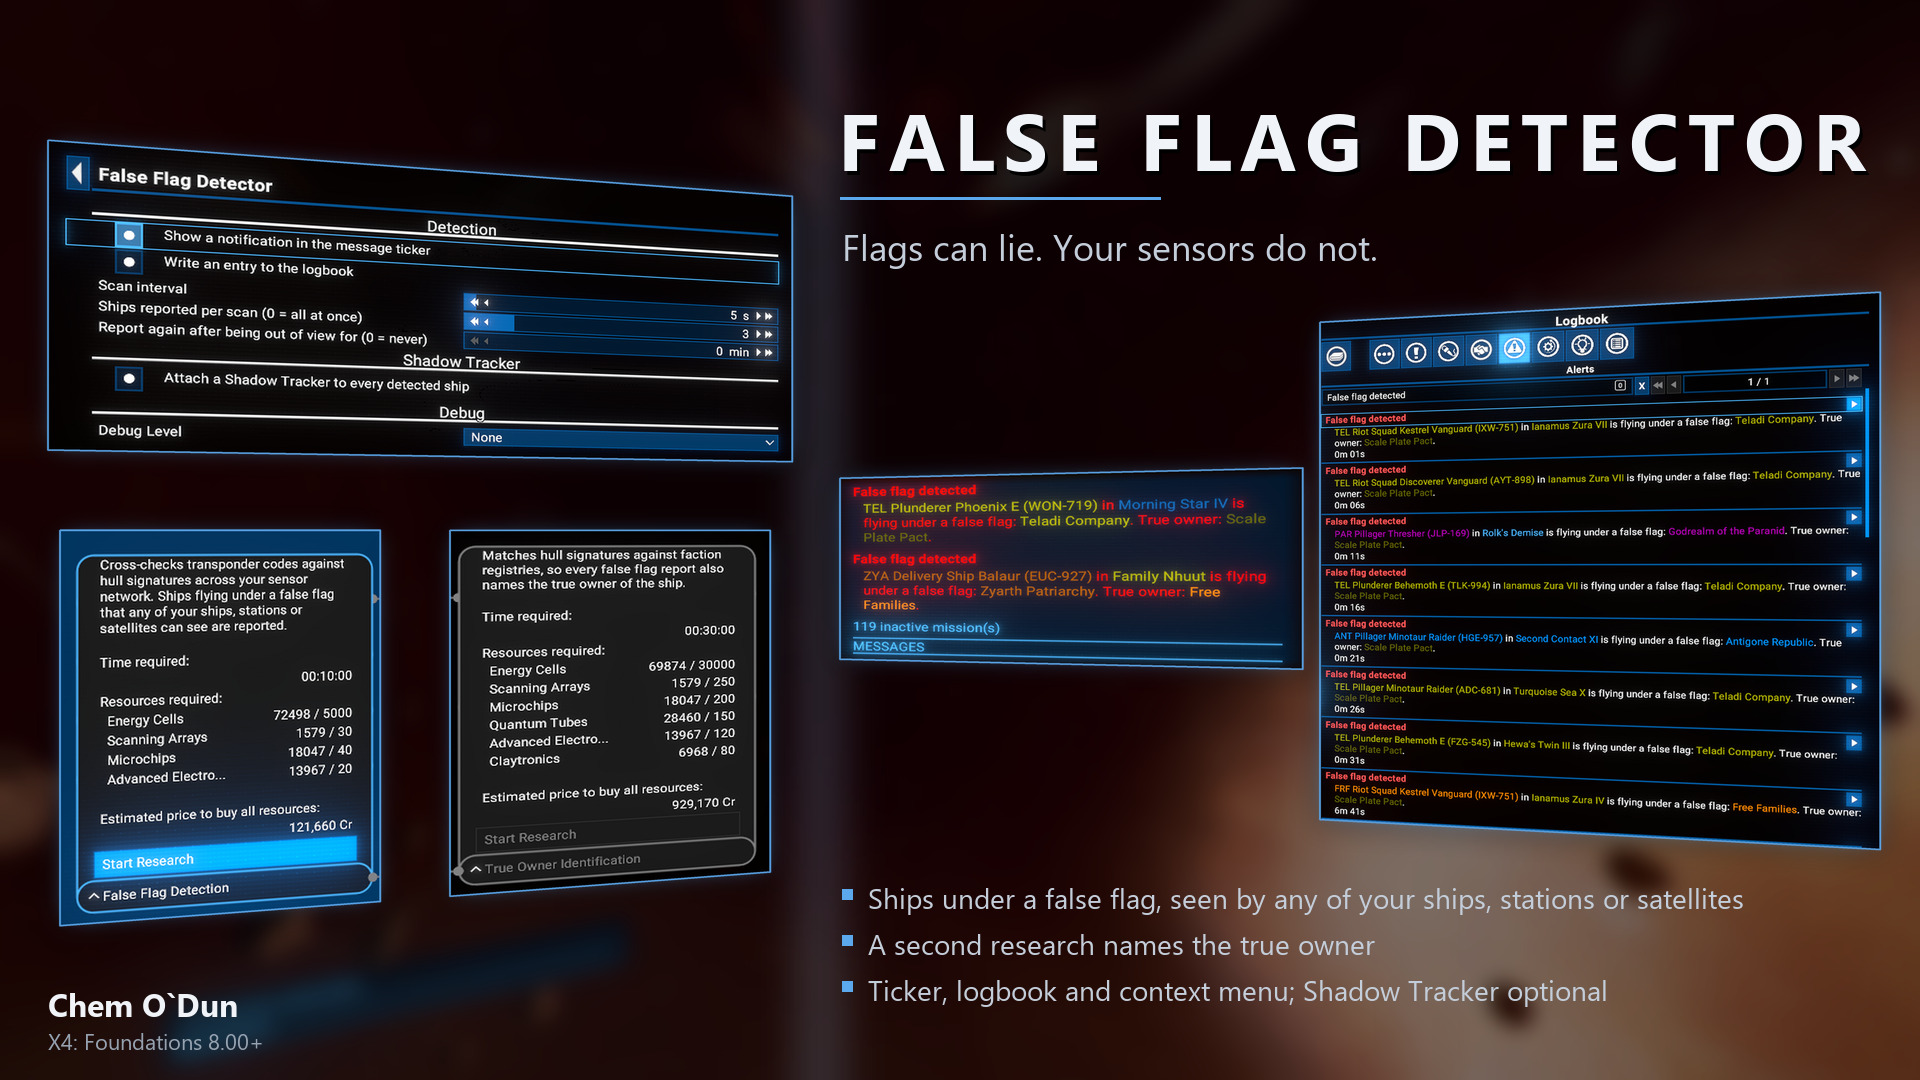
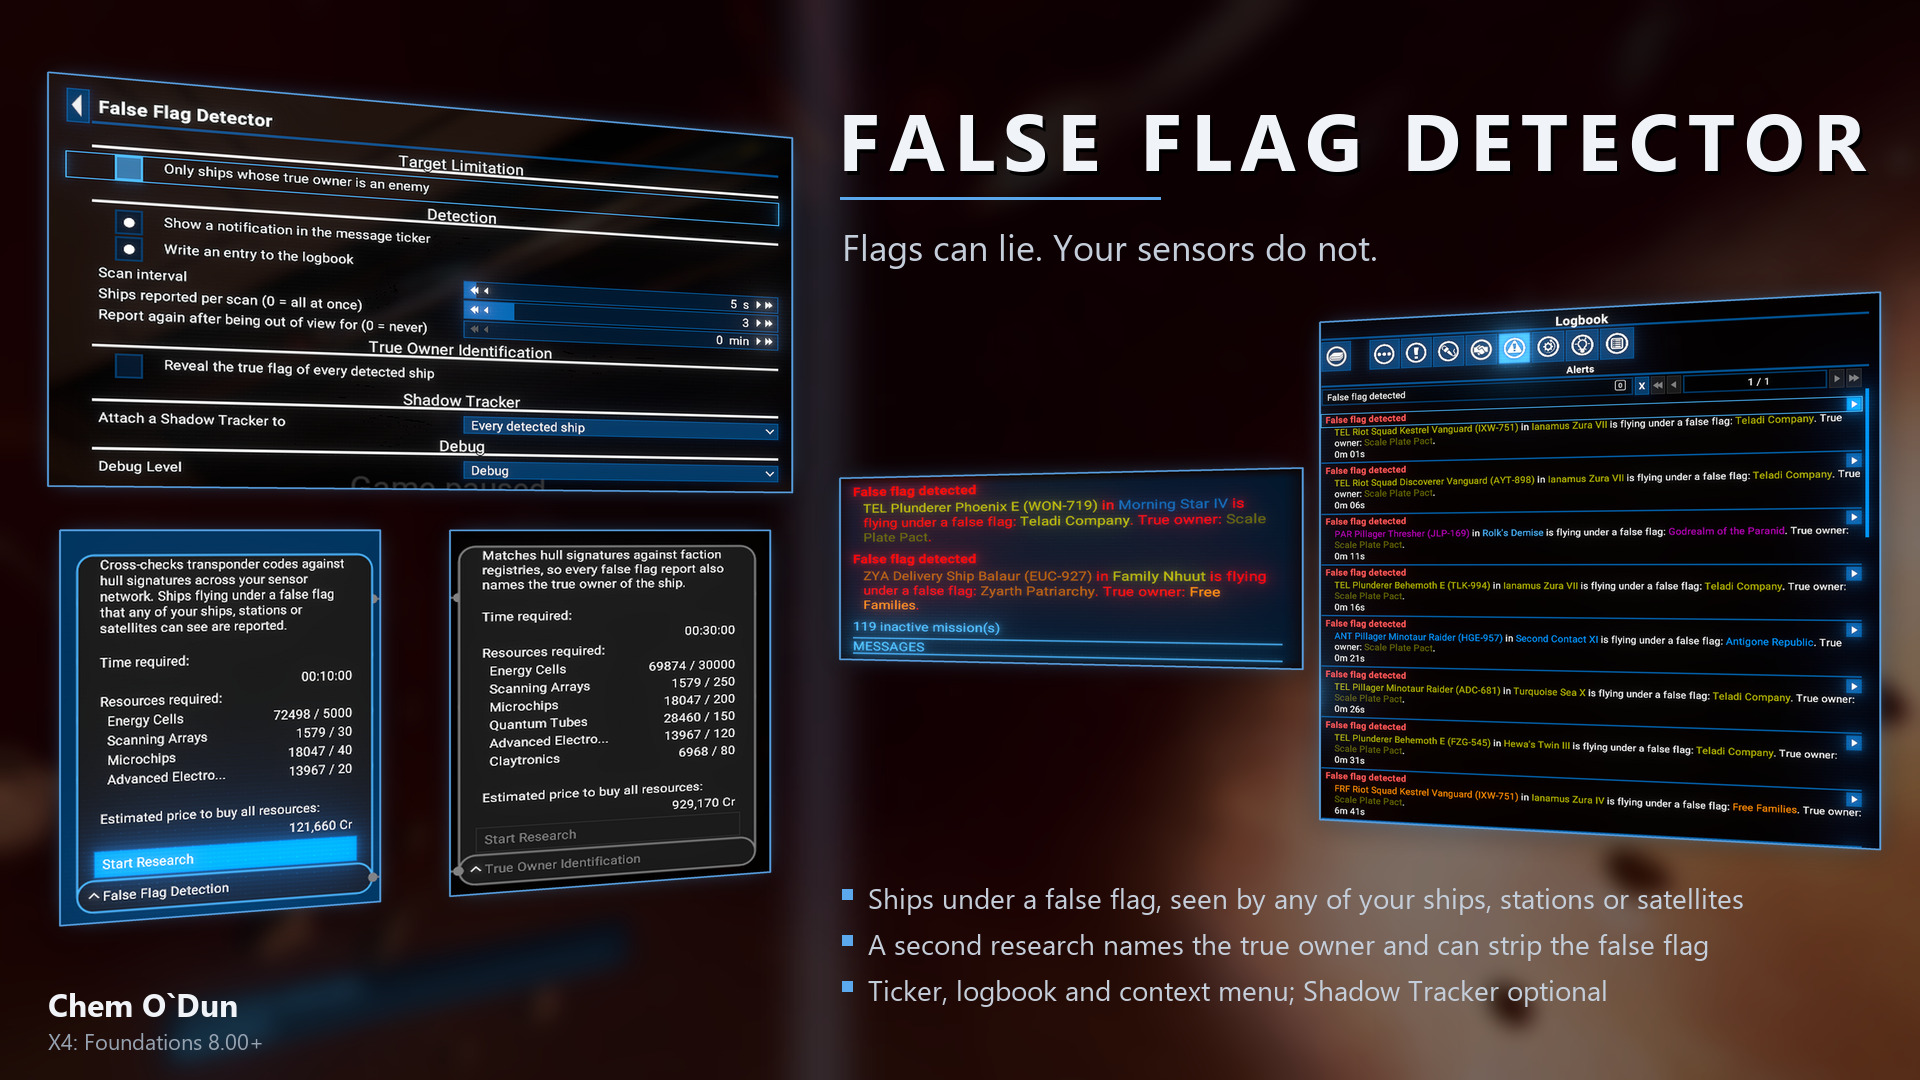
docs: fix readme and update title

Changed region(s): [[0.0, 0.0611, 0.4375, 0.4583], [0.7188, 0.8556, 0.9062, 0.8861]]

diff --git a/README.md b/README.md
@@ -5,7 +5,7 @@ Pirates and smugglers often fly under someone else's flag: a Scale Plate trader 
 ## Features
 
 - **False Flag Detection** research: any ship flying under a false flag that one of your ships, stations or satellites can see is reported, with its name, ID, sector and the flag it shows.
-- **True Owner Identification** research: a more expensive follow-up; every report also names the true owner of the ship, and two more options become available: reveal the true flag of every detected ship, and report only ships whose true owner is your enemy.
+- **True Owner Identification** research: a more expensive follow-up; every report also names the true owner of the ship, and two more options become available: limit the whole detector to ships whose true owner is your enemy, and reveal the true flag of every detected ship.
 - **Context menu**: right-click a detected ship to see a **False flag** line; with True Owner Identification researched, the true owner is shown beside it in its faction colour. Hover over it for the full report.
 - **Notifications**: a warning in the ticker and an entry in the logbook's Alerts, each can be switched off. For 10 minutes after the report the logbook entry shows the ship on the map; a ship carrying a Shadow Tracker keeps that button.
 - **Shadow Tracker**: with [Shadow Tracker](https://steamcommunity.com/sharedfiles/filedetails/?id=3676424693) installed, a Shadow Tracker device is attached to every detected ship, or only to enemy or revealed enemy ships, while you have free devices in your inventory.
@@ -68,13 +68,13 @@ An options page is available via the `Extension Options` menu:
 
 ![Options](docs/images/options.png)
 
-- **Only ships whose true owner is an enemy** - limits everything below to them: ships of other true owners are not reported, revealed or tracked - off by default; needs the True Owner Identification research.
+- **Only ships whose true owner is an enemy** - the whole detector then works on these ships only: ships of other true owners get no ticker message, no logbook entry, no reveal and no Shadow Tracker. The context menu line still shows for every disguised ship in view - off by default; works only once True Owner Identification is researched, greyed out before.
 - **Show a notification in the message ticker** - on by default.
 - **Write an entry to the logbook** - on by default.
 - **Scan interval** - how often the detector checks, from 3 to 60 seconds - 5 by default.
 - **Ships reported per scan** - at most this many new ships are reported by one scan; the others wait for the next scans, so a sensor network that suddenly sees many disguised ships does not flood the logbook. 0 reports all of them at once - 3 by default.
 - **Report again after being out of view for** - a ship that comes back into view under the same false flag after at least this many minutes out of view is reported again, from 0 to 120 minutes; 0 never reports it again - 0 by default.
-- **Reveal the true flag of every detected ship** - strips the false flag of every reported ship, as a police scan does, so it shows its true owner and the local forces can respond - off by default; needs the True Owner Identification research.
+- **Reveal the true flag of every detected ship** - strips the false flag of every reported ship, as a police scan does, so it shows its true owner and the local forces can respond - off by default; works only once True Owner Identification is researched, greyed out before.
 - **Attach a Shadow Tracker to** - No ship, Every detected ship, Enemy ships only, or Revealed enemy ships only (with the reveal option on) - No ship by default; the two enemy choices need the True Owner Identification research. Available only with Shadow Tracker 8.00.04 or newer, which lets other extensions request tracking.
 - **Debug Level** - None, Debug or Trace; writes detailed lines to the game log.
 
@@ -93,8 +93,8 @@ An options page is available via the `Extension Options` menu:
 ### [1.10] - 2026-10-17
 
 - **Added**
-  - Option to reveal the true flag of every detected ship
-  - Option to report only ships whose true owner is an enemy
+  - Option to limit the whole detector to ships whose true owner is an enemy (needs True Owner Identification)
+  - Option to reveal the true flag of every detected ship (needs True Owner Identification)
 - **Changed**
   - Shadow Tracker option is a dropdown: no ship, every detected ship, enemy ships only, or revealed enemy ships only
 
